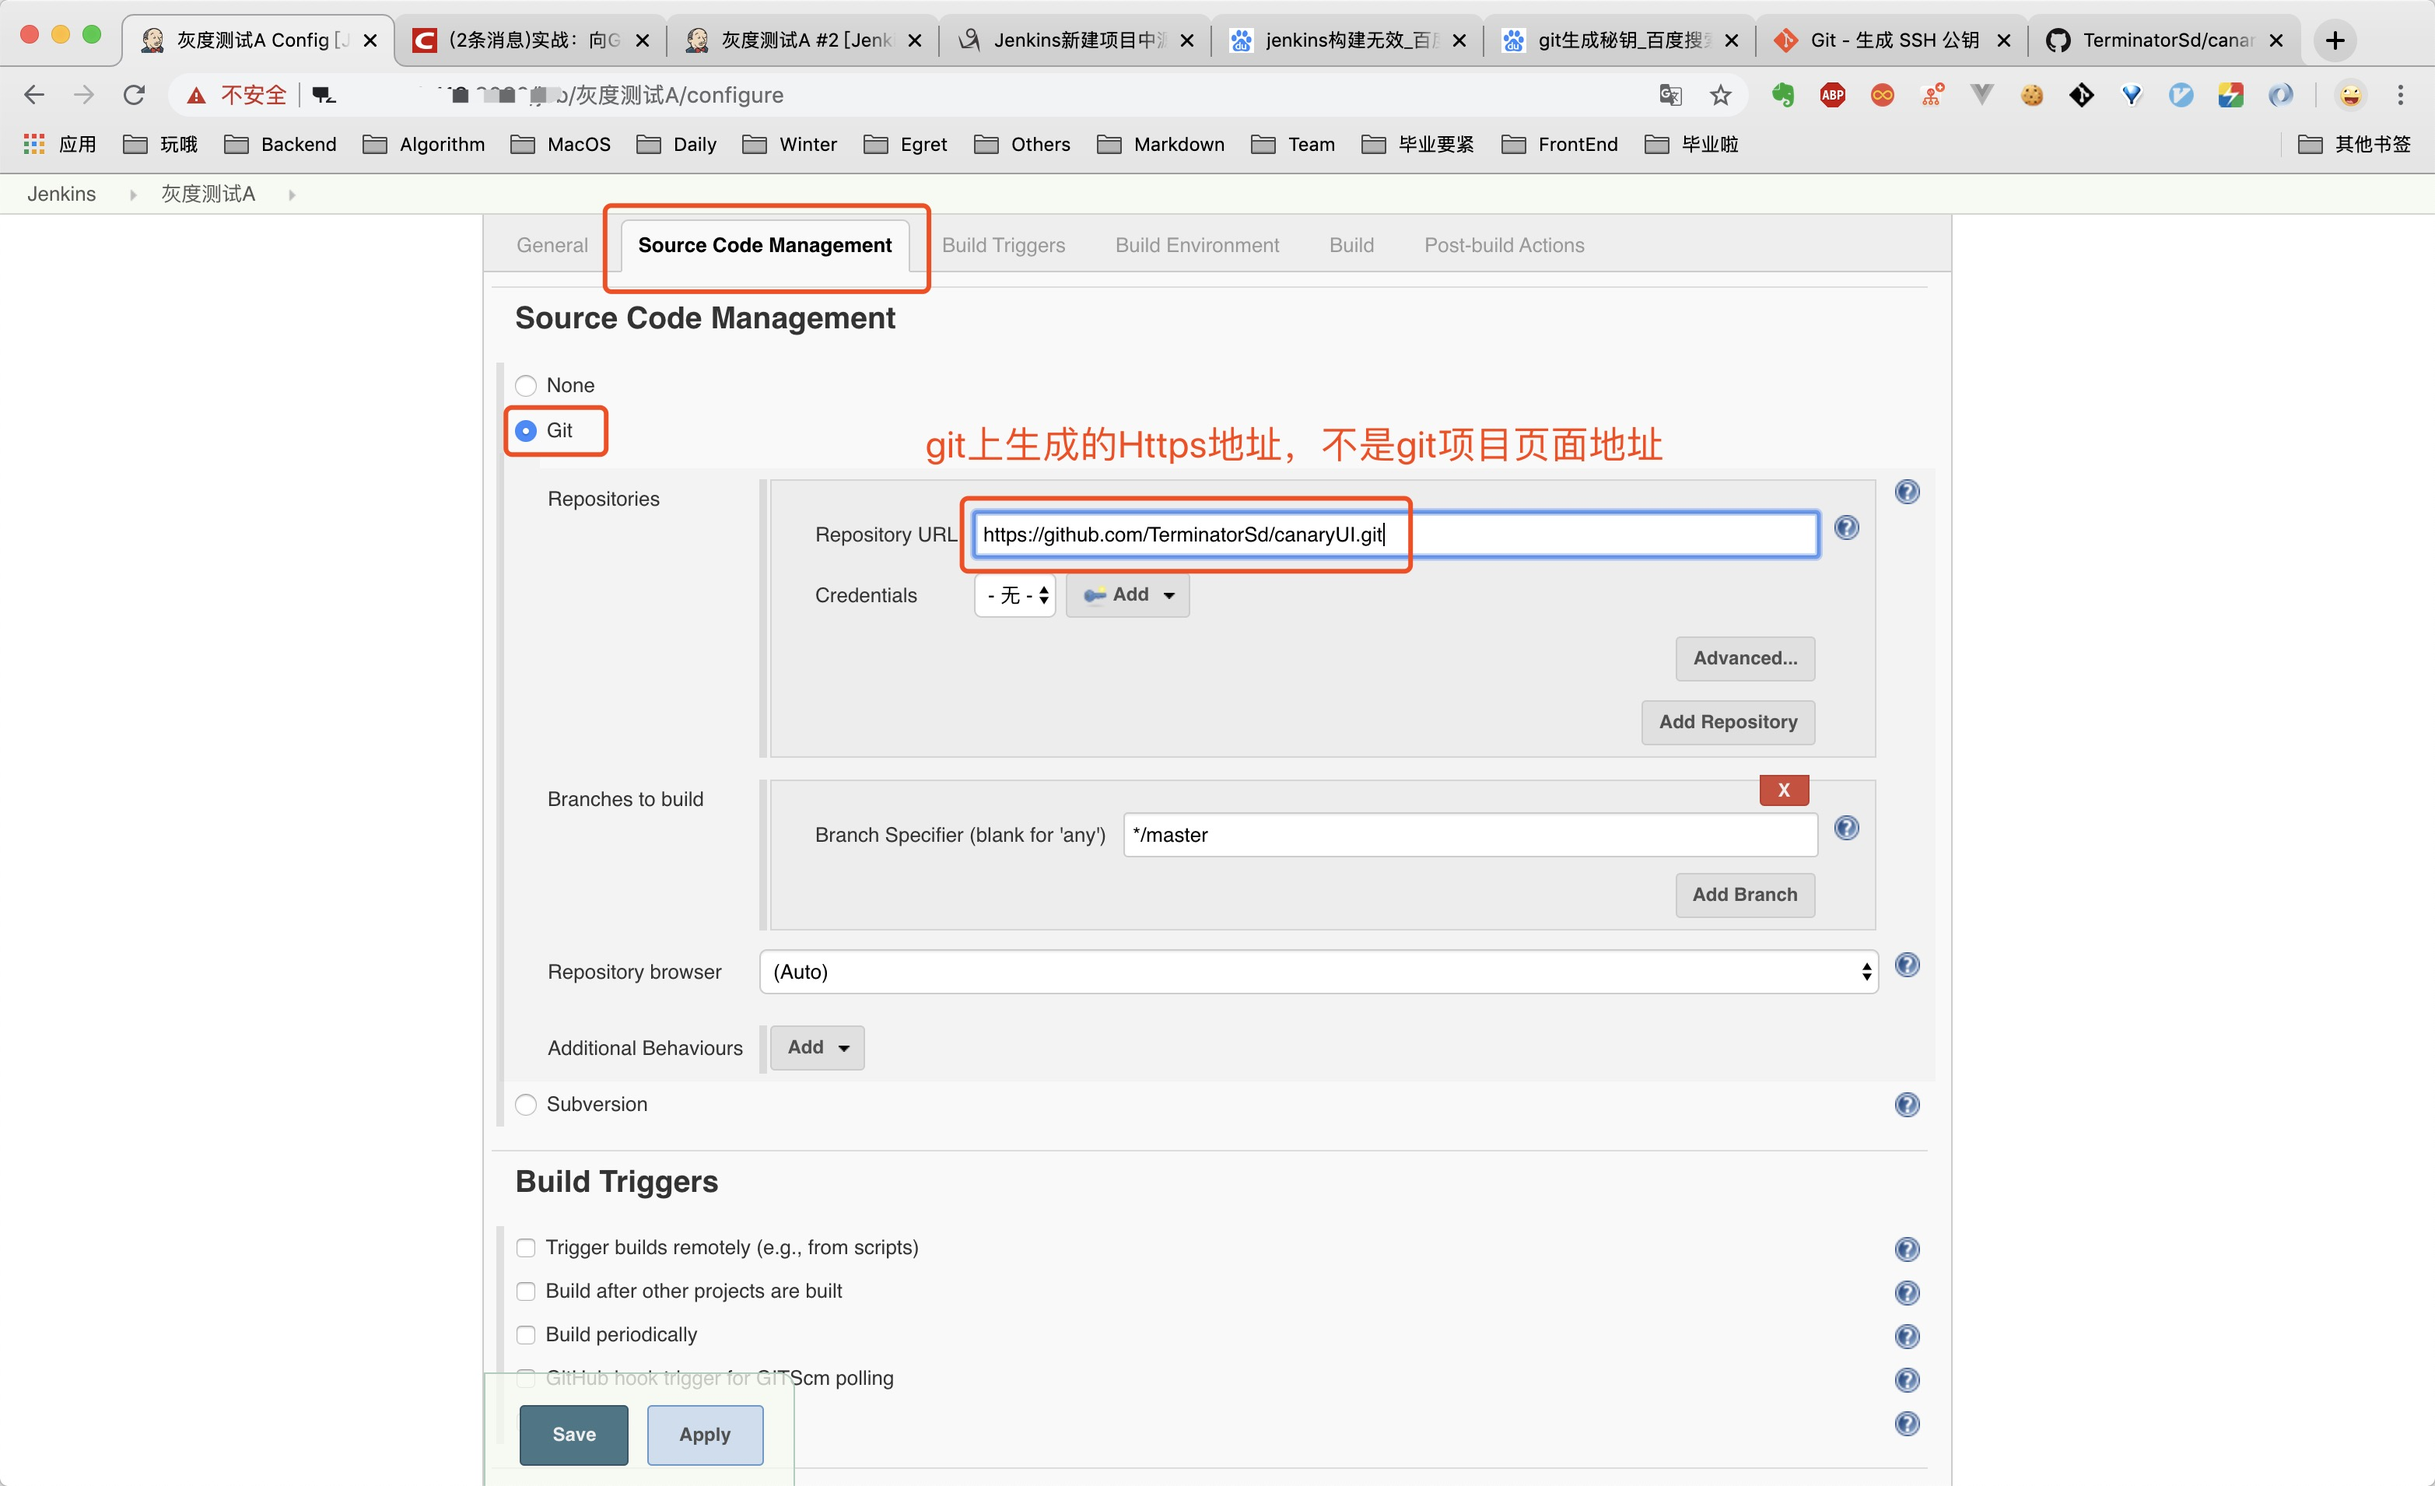
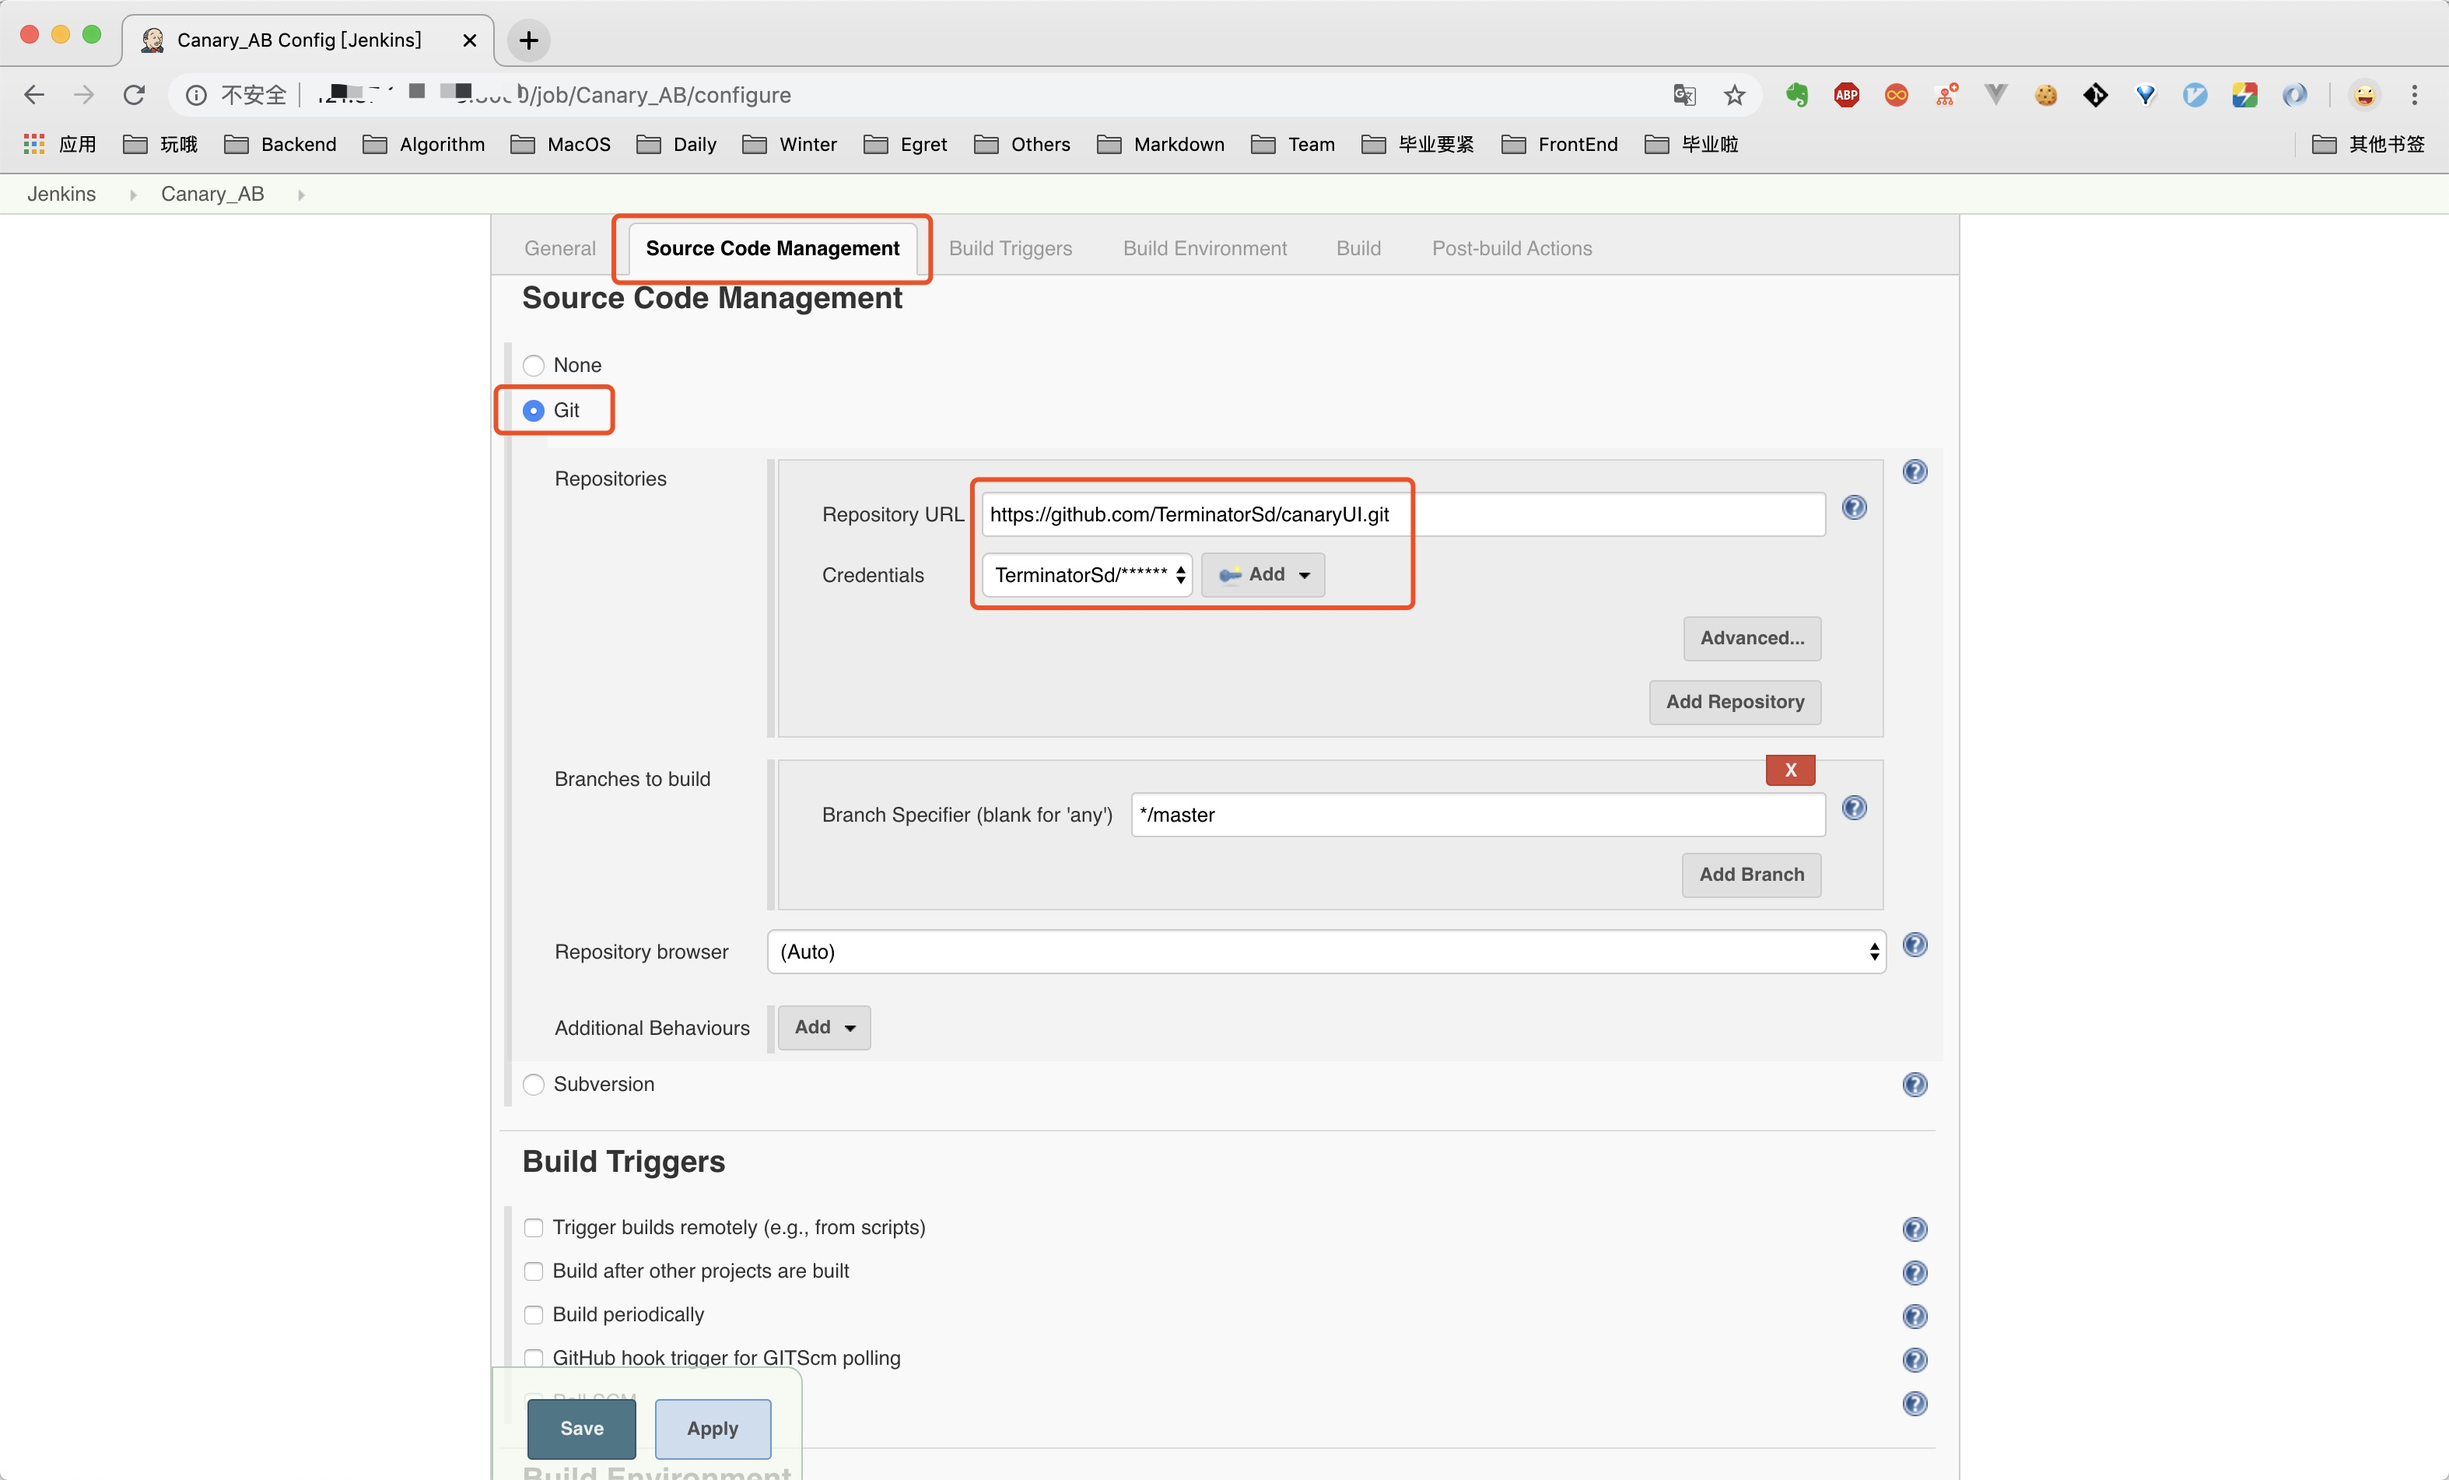
feat: ad credentials

diff --git a/从零搭建一个灰度发布环境.md b/从零搭建一个灰度发布环境.md
@@ -215,7 +215,7 @@ server {
 
 这一步操作，其实我们在之前就已经完成了，我们在上面打了两份tilte 不一样的生产包，此时可以派上用场了。
 
-首先来配置灰度测试A，这个任务内容上面也基本讲清楚了，首先要关联该任务到远程的github 仓库（需要手动创建一个，存放上面打包的B-CanaryDemo，并命名为dist）让它知道可以去哪里拉取最新代码。
+首先来配置灰度测试A，这个任务内容上面也基本讲清楚了，首先要关联该任务到远程的github 仓库（需要手动创建一个，存放上面打包的B-CanaryDemo，并命名为dist）让它知道可以去哪里拉取最新代码，另外还要点击Credentials 右边的按钮新增你的github 账号和密码，拉取代码时需要验证。
 
 ![jenkins-no-git](./img/jenkins-no-git.jpg)
 
@@ -260,6 +260,8 @@ JENKINS_USER="root"
 git pull
 rm -rf /var/canaryDemo
 scp -r dist /var/canaryDemo
+// 看到最后你会知道为啥要加这一句
+cp /var/canaryDemo/index.html /var/canaryDemo/50x.html
 sed -i 's/server 22.22.22.22 weight=1/# server 22.22.22.22 weight=1/' /etc/nginx/nginx.conf
 sed -i 's/server 11.11.11.11 weight=2/# server 11.11.11.11 weight=2/' /etc/nginx/nginx.conf
 ```
